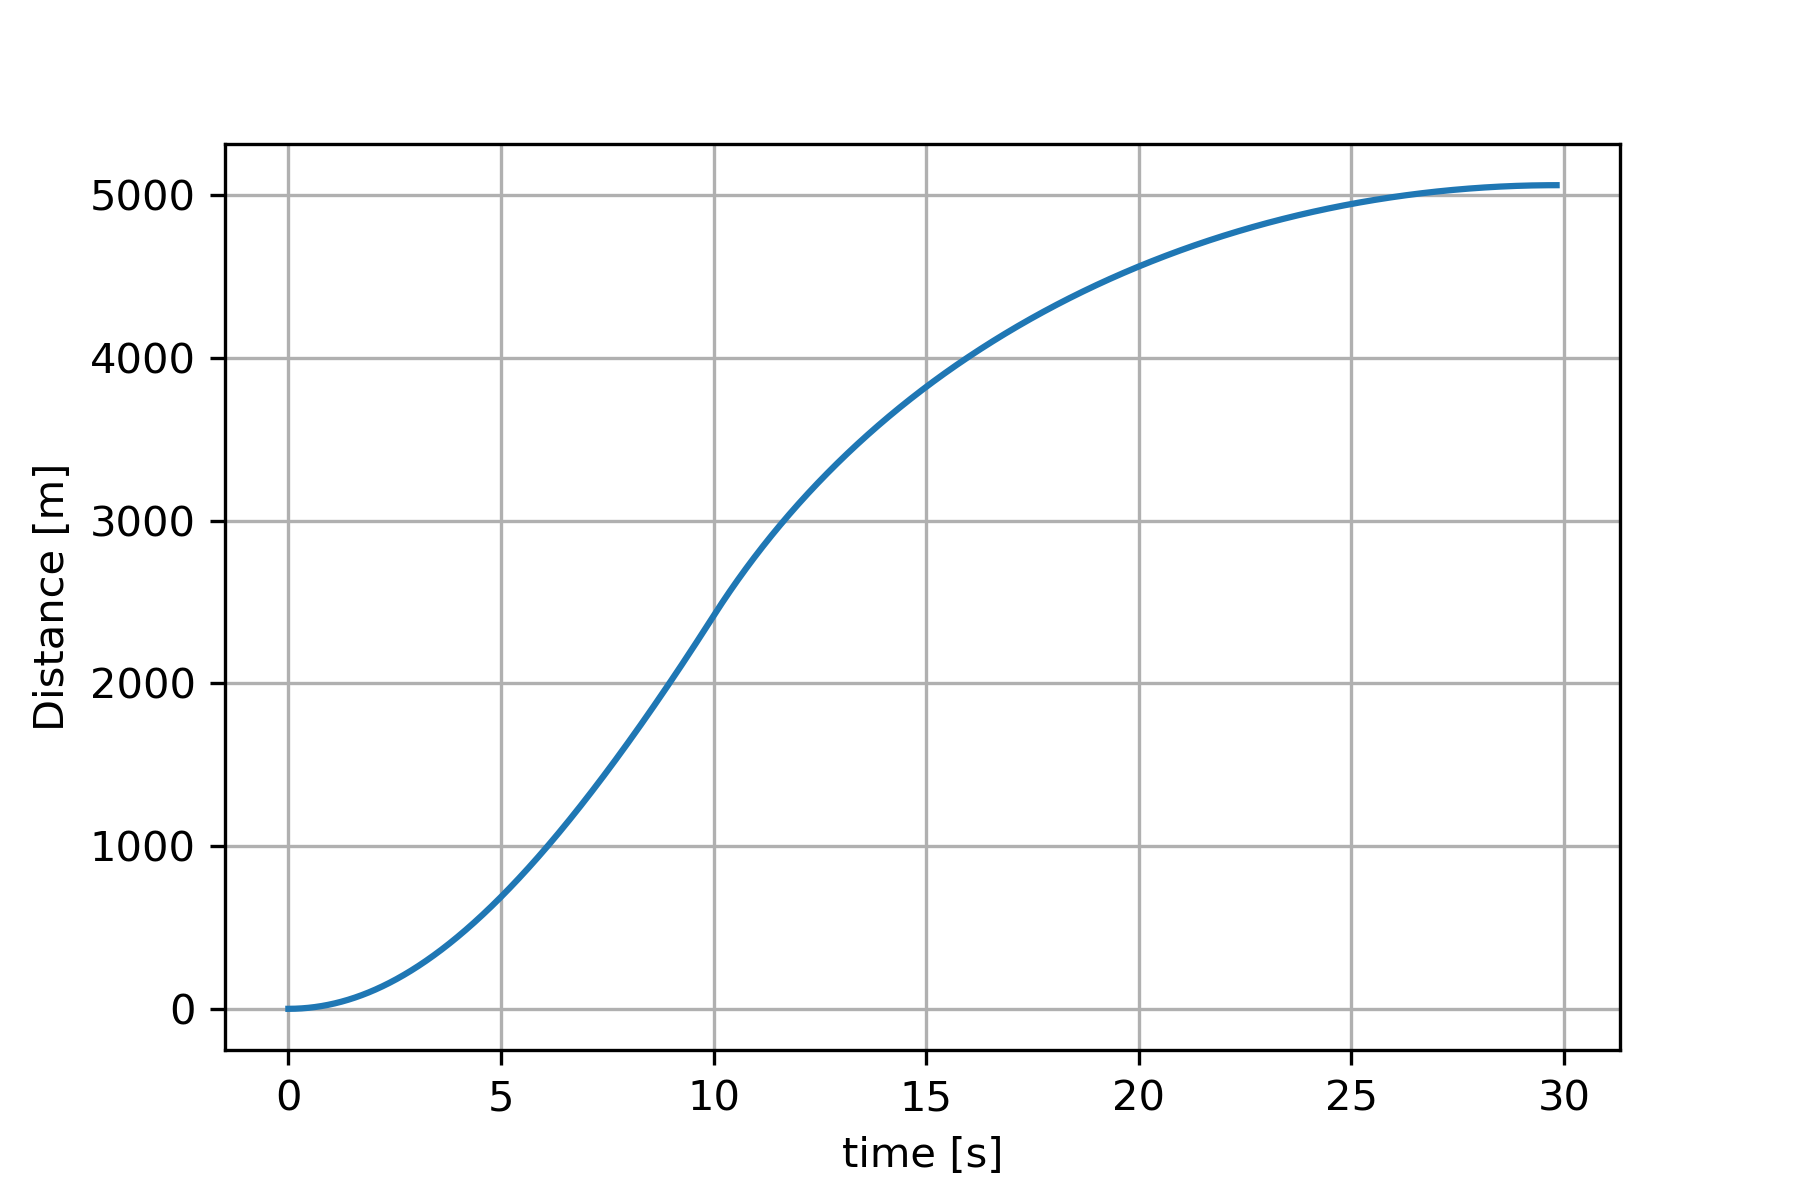
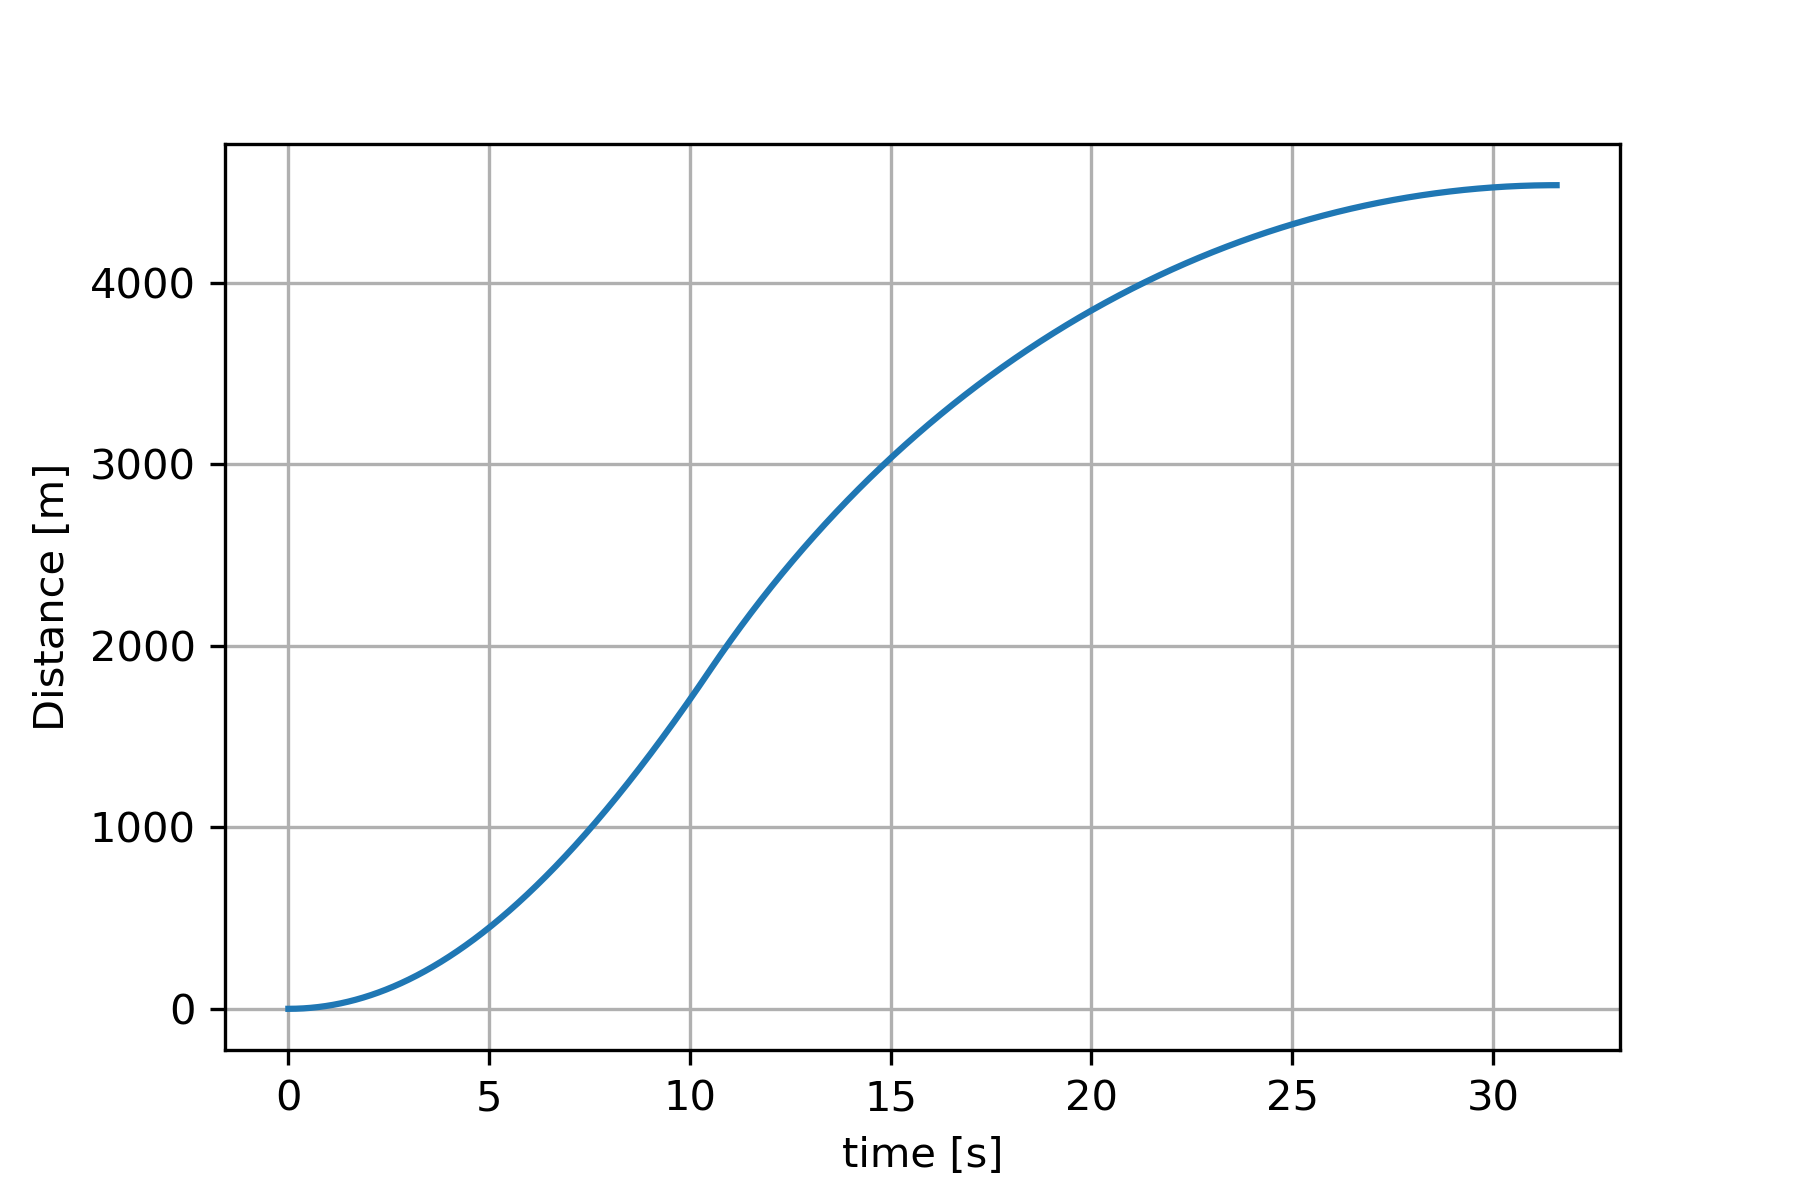
Updated sim for 25 kg structural mass, 10.5 s burn

diff --git a/Trajectory/LaunchSim_00.py b/Trajectory/LaunchSim_00.py
@@ -64,6 +64,7 @@ def solver(tb, mdot, ms, Ft, s, Cd, dt):
     
     run = True
     count = 0
+    rail = True
     while run:
         
         Fsum = gravity(m[count], h[count]) + drag(rho[count], v[count], s, Cd)
@@ -92,7 +93,10 @@ def solver(tb, mdot, ms, Ft, s, Cd, dt):
         t = t + dt
         time.append(t)
         #print("Time: ",t," Force: ",Fsum, " Mass: ", m1)
-        if h[count] > 11.8 and h[count] < 12.2:
+        if h[count] > 11.9 and rail:
+            """Saves rail exit velocity"""    
+            vrail = v[count]
+            rail = False
             print("v: ", v[count], "h: ", h[count])
         
         #print("Time: ",t," Force: ",Fsum," Acc: ", a1," v: ", v1, " h: ", h1, " Mass: ", m1 )
@@ -105,11 +109,11 @@ def solver(tb, mdot, ms, Ft, s, Cd, dt):
 """Rocket Parameters"""
 thrust = 1500   #N
 mdot = 0.785    #kg/s
-ms = 15         #kg
+ms = 25         #kg
 s = np.pi*(.075**2)
 Cd = 0.75
 
-burn_time = 10  #s 
+burn_time = 10.5  #s 
 dt = 0.002 #time step, s
 
 
